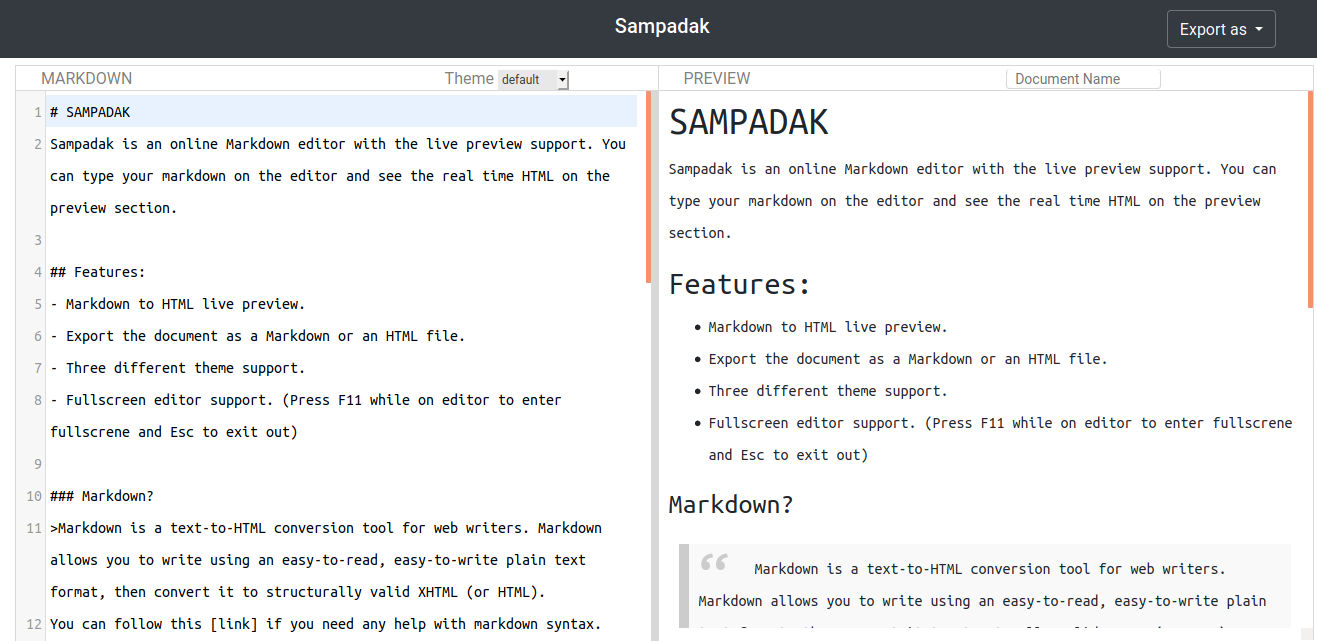
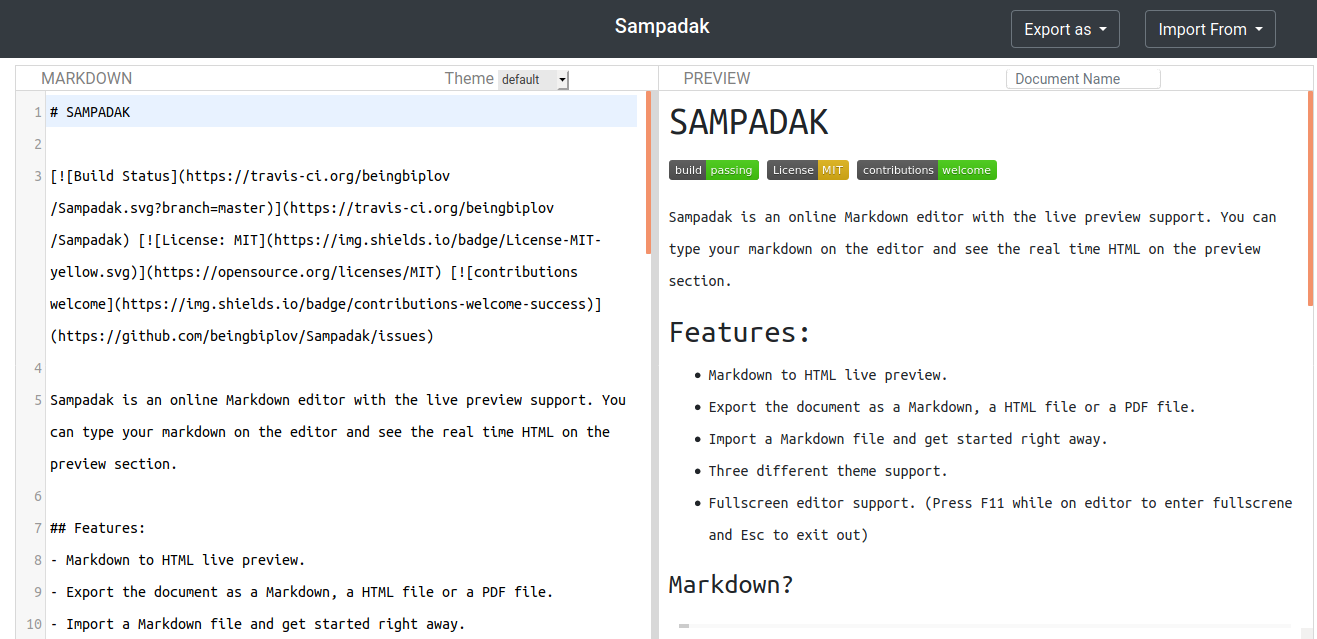
updating Readme

diff --git a/js/script.js b/js/script.js
@@ -207,8 +207,8 @@ Sampadak is an online Markdown editor with the live preview support. You can typ
 
 ## Features:
 - Markdown to HTML live preview.
-- Export the document as a Markdown or an HTML file.
-- Import a Markdown file. 
+- Export the document as a Markdown, a HTML file or a PDF file.
+- Import a Markdown file and get started right away. 
 - Three different theme support.
 - Fullscreen editor support. (Press F11 while on editor to enter fullscrene and Esc to exit out)
 
@@ -222,11 +222,11 @@ Sampadak make use of some awesome open source projects:
 - [Showdownjs] : A Markdown to HTML bidirectional converter.
 - [Bootstrap] : An open source toolkit for developing with HTML, CSS, and JS.
 - [jQuery] :  A fast, small, and feature-rich JavaScript library.
+- [jsPDF] : Client-side JavaScript PDF generator.
 
 ## Want to contribute?
-Sampadak is in early stages of development. You can visit our repository on [Github] to contribute to the project. You can report a bug or  recommend new features.
-**You can help Sampadak be Great.**
-<br>
+You can visit our repository on [Github] to contribute to the project. You can report a bug or  recommend new features.
+
 ## License
 MIT
 
@@ -237,6 +237,7 @@ MIT
 [Bootstrap]: <https://getbootstrap.com/>
 [jQuery]: <https://jquery.com/>
 [GitHub]: <https://github.com/beingbiplov/Sampadak/>
+[jsPDF]: <https://github.com/MrRio/jsPDF>
 [link]: <https://daringfireball.net/projects/markdown/syntax>
 
 `

diff --git a/README.md b/README.md
@@ -7,7 +7,7 @@ Sampadak is an online Markdown editor with the live preview support. You can typ
 
 ## Features:
 - Markdown to HTML live preview.
-- Export the document as a Markdown or an HTML file.
+- Export the document as a Markdown, a HTML file or a PDF file.
 - Import a Markdown file.
 - Three different theme support.
 - Fullscreen editor support. (Press F11 while on editor to enter fullscrene and Esc to exit out)
@@ -31,10 +31,10 @@ Sampadak make use of some awesome open source projects:
 - [Showdownjs] : A Markdown to HTML bidirectional converter.
 - [Bootstrap] : An open source toolkit for developing with HTML, CSS, and JS.
 - [jQuery] :  A fast, small, and feature-rich JavaScript library.
+- [jsPDF] : Client-side JavaScript PDF generator.
 
 ## Want to contribute?
 Sampadak is in early stages of development. You can report a bug or  recommend new features.
-**You can help Sampadak be Great.**
 <br>
 ## License
 MIT
@@ -46,5 +46,6 @@ MIT
 [Bootstrap]: <https://getbootstrap.com/>
 [jQuery]: <https://jquery.com/>
 [GitHub]: <https://github.com/>
+[jsPDF]: <https://github.com/MrRio/jsPDF>
 [link]: <https://daringfireball.net/projects/markdown/syntax>
 [live demo]: <https://beingbiplov.github.io/Sampadak/>
